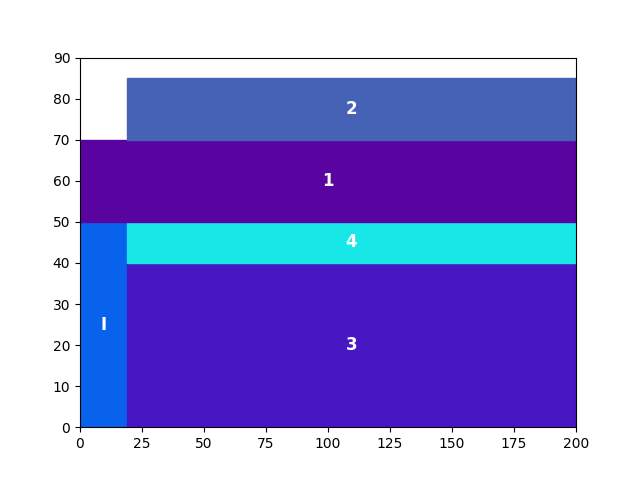
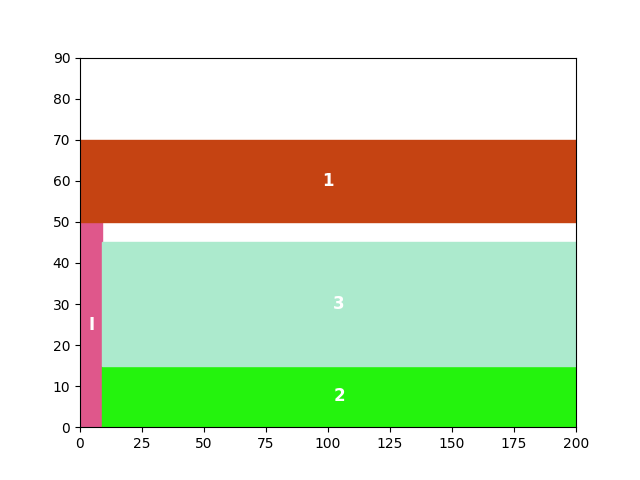
add internal buffer support

diff --git a/src/platforms/memory.py b/src/platforms/memory.py
@@ -5,6 +5,9 @@ import matplotlib.pyplot as plt
 from matplotlib.patches import Rectangle
 import numpy as np
 
+from graph.node import Node
+
+
 class Memory:
     DEADLINE = 200
 
@@ -12,42 +15,45 @@ class Memory:
         self.slots = []
         self.size = size
 
-    def first_fit(self, size, interval, task=None):
+    def first_fit(self, size, interval, task: Node = None, final=True):
+        if size == 0:
+            return None
         overlap_slots = list(filter(
             lambda slot: slot.interval[0] < interval[1] and slot.interval[1] > interval[0], self.slots))
         if not overlap_slots:
-            return self.allocate((0, size), interval, task)
-        else:
-            prev_addr = 0
-            for slot in overlap_slots:
-                if (slot.addr[0] - prev_addr) >= size:
-                    return self.allocate([prev_addr, prev_addr+size], interval, task)
-                prev_addr = slot.addr[1]
-            if (self.size - prev_addr) >= size:
-                return self.allocate([prev_addr, prev_addr+size], interval, task)
-            # delay
-            delay_to = min([slot.interval[1] for slot in overlap_slots])
-            if delay_to == self.DEADLINE:
-                self.plot()
-                exit('Cannot fit the memory constraint')
-                return None
-            interval = [delay_to, delay_to + (interval[1] - interval[0])]
-            return self.first_fit(size, interval, task)
+            return self.allocate((0, size), interval, task, final)
+        prev_addr = 0
+        for slot in overlap_slots:
+            if (slot.addr[0] - prev_addr) >= size:
+                return self.allocate([prev_addr, prev_addr+size], interval, task, final)
+            prev_addr = slot.addr[1]
+        if (self.size - prev_addr) >= size:
+            return self.allocate([prev_addr, prev_addr+size], interval, task, final)
+        # delay
+        delay_to = min([slot.interval[1] for slot in overlap_slots])
+        if delay_to == self.DEADLINE:
+            self.plot(filename='unfit')
+            raise ValueError('Cannot fit the memory constraint')
+        interval = [delay_to, delay_to + (interval[1] - interval[0])]
+        return self.first_fit(size, interval, task, final)
 
     def free_tensor(self, task, until):
-        target_slot = next(slot for slot in self.slots if slot.task is task)
+        target_slot = next(
+            slot for slot in self.slots if slot.task is task and slot.final is False)
         target_slot.interval[1] = until
+        target_slot.final = True
 
-    def allocate(self, address, interval, task):
-        self.task = task
+    def allocate(self, address, interval, task, final=True):
         # insert slot
-        new_slot = Slot(address, interval, task)
+        new_slot = Slot(address, interval, task, final)
         bisect.insort(self.slots, new_slot)
         return new_slot
 
     def plot(self, makespan=None, filename='memory-allocation'):
         fig, ax = plt.subplots()
         for slot in self.slots:
+            if slot.size == 0:
+                continue
             color = "#"+''.join([random.choice('0123456789ABCDEF')
                                 for j in range(6)])
             rect = Rectangle(slot.pos, slot.length,
@@ -57,7 +63,8 @@ class Memory:
             cx = rx + rect.get_width()/2.0
             cy = ry + rect.get_height()/2.0
 
-            plt.annotate(str(slot.task.id) if slot.task else 'I', (cx, cy), color='w', weight='bold',
+            # print(slot.task.id sif slot.task else 'I', slot.pos, slot.length, slot.size)
+            plt.annotate((str(slot.task.id) if slot.task else 'I') + ('(B)' if slot.final else ''), (cx, cy), color='w', weight='bold',
                          fontsize=12, ha='center', va='center')
         plt.ylim(0, self.size)
         plt.xlim(0, makespan+10 if makespan else self.DEADLINE)
@@ -72,10 +79,12 @@ class Memory:
 
 
 class Slot:
-    def __init__(self, address, interval, task=None):
+    def __init__(self, address, interval, task=None, final=True):
         self.addr = address
         self.interval = interval
         self.task = task
+        self.final = final
+        self.is_buffer = final
 
     @property
     def pos(self):
@@ -93,4 +102,6 @@ class Slot:
         return self.addr[0] < other.addr[0]
 
     def __repr__(self):
-        return f'start: {self.addr[0]}, end: {self.addr[1]}'
+        id = self.task.id if self.task else 'IO'
+        return f'\n(id: {id}, is_buffer: {self.is_buffer})'
+        # return f'(id: {id}, start: {self.addr[0]}, end: {self.addr[1]}, is_buffer: {self.is_buffer})'

diff --git a/src/algorithms/heft_bf.py b/src/algorithms/heft_bf.py
@@ -21,11 +21,17 @@ class HEFTBrutoForce(AlgoBase):
             (task for task in tasks if len(task.out_edges) == 0), None)
 
         if entry_task is None or exit_task is None:
-            raise ValueError
+            raise ValueError('No entry or exit node')
 
         self.calculate_rank(entry_task)
         sorted_tasks = sorted(tasks, key=cmp_to_key(task_compare))
-        proc_schedule: list[list[Node]] = [[] for _ in range(len(entry_task.cost_table))]
+        sorted_tasks[3], sorted_tasks[5] = sorted_tasks[5], sorted_tasks[3]
+        sorted_tasks[4], sorted_tasks[5] = sorted_tasks[5], sorted_tasks[4]
+        # debug
+        # sorted_tasks = sorted_tasks[:3]
+        print(list(map(lambda task: task.id, sorted_tasks)))
+        schedule: list[list[Node]] = [[]
+                                      for _ in range(len(entry_task.cost_table))]
 
         for task in sorted_tasks:
             min_eft_procId = np.argmin(task.cost_table)
@@ -35,9 +41,9 @@ class HEFTBrutoForce(AlgoBase):
                 [edge.source.aft for edge in task.in_edges])
             # choose a processor
             for pid, cost in enumerate(task.cost_table):
-                proc_est = proc_schedule[pid][-1].aft if len(
-                    proc_schedule[pid]) > 0 else est
-                
+                proc_est = schedule[pid][-1].aft if len(
+                    schedule[pid]) > 0 else est
+
                 # check if current task and its parents are on the same processor
                 for in_edge in task.in_edges:
                     if in_edge.source.procId-1 != pid:
@@ -48,7 +54,7 @@ class HEFTBrutoForce(AlgoBase):
                     selected_ast = proc_est
                     min_eft = eft
                     min_eft_procId = pid
-            
+
             # allocate input tensor
             if task is entry_task:
                 self.memory.first_fit(input, [selected_ast, min_eft])
@@ -56,8 +62,12 @@ class HEFTBrutoForce(AlgoBase):
             if task is exit_task:
                 self.memory.first_fit(output, [selected_ast, min_eft], task)
             else:
+                # allocate internal buffer
+                # print(task.buffer_size)
+                self.memory.first_fit(task.buffer_size, [selected_ast, min_eft], task)
+                # allocate task's output tensor
                 self.memory.first_fit(task.out_edges[0].size, [
-                                   selected_ast, Memory.DEADLINE], task)
+                    selected_ast, Memory.DEADLINE], task, final=False)
             # free input tensors
             if task is not entry_task:
                 # check if inputs can be free
@@ -74,16 +84,19 @@ class HEFTBrutoForce(AlgoBase):
                     if last_use:
                         until = max(until, min_eft)
                         self.memory.free_tensor(in_edge.source, until)
+
+            # append task to schedule
             task.procId = min_eft_procId + 1
             task.ast = selected_ast
             task.aft = min_eft
-            proc_schedule[min_eft_procId].append(task)
+            schedule[min_eft_procId].append(task)
+            # update makespan
             if task.aft > makespan:
                 makespan = task.aft
 
         self.memory.plot(makespan, filename='mem-heft-bf')
-        self.plot(proc_schedule, makespan, 'heft-bf')
-        return proc_schedule, makespan
+        self.plot(schedule, makespan, 'heft-bf')
+        return schedule, makespan
 
     def calculate_rank(self, task: Node):
         if task.rank:

diff --git a/src/algorithms/heft_delay.py b/src/algorithms/heft_delay.py
@@ -21,11 +21,13 @@ class HEFTDelay(AlgoBase):
             (task for task in tasks if len(task.out_edges) == 0), None)
 
         if entry_task is None or exit_task is None:
-            raise ValueError
+            raise ValueError('No entry or exit node')
 
         self.calculate_rank(entry_task)
         sorted_tasks = sorted(tasks, key=cmp_to_key(task_compare))
-        schedule: list[list[Node]] = [[] for _ in range(len(entry_task.cost_table))]
+        print(list(map(lambda task: task.id, sorted_tasks)))
+        schedule: list[list[Node]] = [[]
+                                      for _ in range(len(entry_task.cost_table))]
 
         for task in sorted_tasks:
             min_eft_procId = np.argmin(task.cost_table)
@@ -37,7 +39,7 @@ class HEFTDelay(AlgoBase):
             for pid, cost in enumerate(task.cost_table):
                 proc_est = schedule[pid][-1].aft if len(
                     schedule[pid]) > 0 else est
-                
+
                 # check if current task and its parents are on the same processor
                 for in_edge in task.in_edges:
                     if in_edge.source.procId-1 != pid:
@@ -48,7 +50,7 @@ class HEFTDelay(AlgoBase):
                     selected_ast = proc_est
                     min_eft = eft
                     min_eft_procId = pid
-            
+
             # allocate input tensor
             if task is entry_task:
                 self.memory.first_fit(input, [selected_ast, min_eft])
@@ -56,8 +58,13 @@ class HEFTDelay(AlgoBase):
             if task is exit_task:
                 self.memory.first_fit(output, [selected_ast, min_eft], task)
             else:
+                # allocate internal buffer
+                # print(task.buffer_size)
+                self.memory.first_fit(
+                    task.buffer_size, [selected_ast, min_eft], task)
+                # allocate task's output tensor
                 self.memory.first_fit(task.out_edges[0].size, [
-                                   selected_ast, Memory.DEADLINE], task)
+                    selected_ast, Memory.DEADLINE], task, final=False)
             # free input tensors
             if task is not entry_task:
                 # check if inputs can be free
@@ -74,7 +81,7 @@ class HEFTDelay(AlgoBase):
                     if last_use:
                         until = max(until, min_eft)
                         self.memory.free_tensor(in_edge.source, until)
-            
+
             # append task to schedule
             task.procId = min_eft_procId + 1
             task.ast = selected_ast

diff --git a/src/graph/dag.py b/src/graph/dag.py
@@ -5,10 +5,10 @@ from algorithms.heft import HEFT
 from algorithms.heft_delay import HEFTDelay
 from algorithms.heft_bf import HEFTBrutoForce
 from platforms.memory import Memory
+import copy
+
 
 class DAG:
-    def __init__(self, algo: AlgoBase):
-        self.algo = self.get_algo(algo)
 
     def get_algo(self, algo):
         if isinstance(algo, str):
@@ -19,9 +19,6 @@ class DAG:
             }[algo.lower()]
         return algo
 
-    def adopt(self, algo: AlgoBase):
-        self.algo = self.get_algo(algo)
-
     def read_input(self, filepath: str, memory=True):
         self.tasks = []
         with open(filepath, 'r') as f:
@@ -29,22 +26,24 @@ class DAG:
             self.input, self.output = map(int, next(f).split())
             self.tasks = []
             for tid in range(task_num):
-               cost_table = [int(x) for x in next(f).split()]
-               self.tasks.append(Node(tid+1, 0, cost_table))
+                cost_table = [int(x) for x in next(f).split()]
+                self.tasks.append(Node(tid+1, cost_table, 10))
             for sid in range(task_num-1):
                 line = next(f).split()
                 size = int(line[0])
                 targets = list(map(int, line[1:]))
                 for target in targets:
-                    new_edge = Edge(self.tasks[sid], self.tasks[target-1], size)
+                    new_edge = Edge(self.tasks[sid],
+                                    self.tasks[target-1], size)
                     self.tasks[sid].out_edges.append(new_edge)
                     self.tasks[target-1].in_edges.append(new_edge)
 
-    def set_memory(self, memory: Memory):
-        self.algo.memory = memory
-
-    def schedule(self) -> tuple[list[list[Node]], int]:
-        return self.algo.schedule(self.tasks, input=self.input, output=self.output)
+    def schedule(self, algo, memory = None) -> tuple[list[list[Node]], int]:
+        algo = self.get_algo(algo)
+        if memory:
+            algo.memory = Memory(memory)
+        tasks = copy.deepcopy(self.tasks)
+        return algo.schedule(tasks, input=self.input, output=self.output)
 
     def __repr__(self):
         string = '''DAG

diff --git a/main.py b/main.py
@@ -1,13 +1,12 @@
 import sys
 sys.path.insert(0, 'src')
 
-from platforms.memory import Memory
 from graph.dag import DAG
 
-dag = DAG('HEFT')
-dag.read_input('examples/sample.2.in')
-schedule, makespan = dag.schedule()
-print(makespan)
+# dag = DAG()
+# dag.read_input('examples/sample.2.in')
+# schedule, makespan = dag.schedule('heft')
+# print(makespan)
 # print('''HEFT SCHEDULE
 # ---------------------------
 # Proc	Task	AST	AFT
@@ -21,10 +20,21 @@ print(makespan)
 # END
 # ---------------------------''')
 
-dag = DAG('HEFT_delay')
-dag.read_input('examples/sample.2.in')
-dag.algo.set_memory(Memory(100))
-schedule, makespan = dag.schedule()
+dag = DAG()
+dag.read_input('examples/sample.3.in')
+schedule, makespan = dag.schedule('heft')
+print(makespan)
+try:
+    schedule, makespan = dag.schedule('heft_delay', 110)
+    print(makespan)
+except Exception as e:
+    print(e)
+    pass
+# try:
+schedule, makespan = dag.schedule('heft_bf', 110)
+# except Exception as e:
+    # print(e)
+    # pass
 print(makespan)
 # print('''HEFT_delay SCHEDULE
 # ---------------------------
@@ -38,11 +48,11 @@ print(makespan)
 # ---------------------------
 # END
 # ---------------------------''')
-dag = DAG('heft_bf')
-dag.read_input('examples/sample.2.in')
-dag.algo.set_memory(Memory(110))
-schedule, makespan = dag.schedule()
-print(makespan)
+# dag = DAG()
+# dag.read_input('examples/sample.3.in')
+# dag.algo.set_memory(Memory(90))
+# schedule, makespan = dag.schedule('heft_bf')
+# print(makespan)
 # print('''BF SCHEDULE
 # ---------------------------
 # Proc	Task	AST	AFT

diff --git a/src/graph/node.py b/src/graph/node.py
@@ -6,7 +6,7 @@ if TYPE_CHECKING:
 
 
 class Node:
-    def __init__(self, id: int, buffer_size: int, cost_table: list[int], size: int = 0):
+    def __init__(self, id: int, cost_table: list[int], buffer_size: int = 0):
         self.id = id
         self.buffer_size = buffer_size
         self.in_edges: list['Edge'] = []
@@ -18,7 +18,6 @@ class Node:
         self.ast: int = None
         self.aft: int = None
         self.procId: int = None
-        self.size = size
 
     def __repr__(self):
         return str({

diff --git a/src/algorithms/heft.py b/src/algorithms/heft.py
@@ -17,7 +17,7 @@ class HEFT(AlgoBase):
         entry_task = next(
             (task for task in tasks if len(task.in_edges) == 0), None)
         if entry_task is None:
-            raise ValueError
+            raise ValueError('No entry or exit node')
 
         self.calculate_rank(entry_task)
         sorted_tasks = sorted(tasks, key=cmp_to_key(task_compare))

diff --git a/src/algorithms/algo_base.py b/src/algorithms/algo_base.py
@@ -15,7 +15,7 @@ class AlgoBase:
 
     def schedule(self, tasks: list[Node], input: int, output: int) -> tuple[list[list[Node]], int]:
         pass
-
+    
     def plot(self, schedules: list[list[Node]], makespan, filename='heft'):
         fig, ax = plt.subplots()
         per_height = 20
